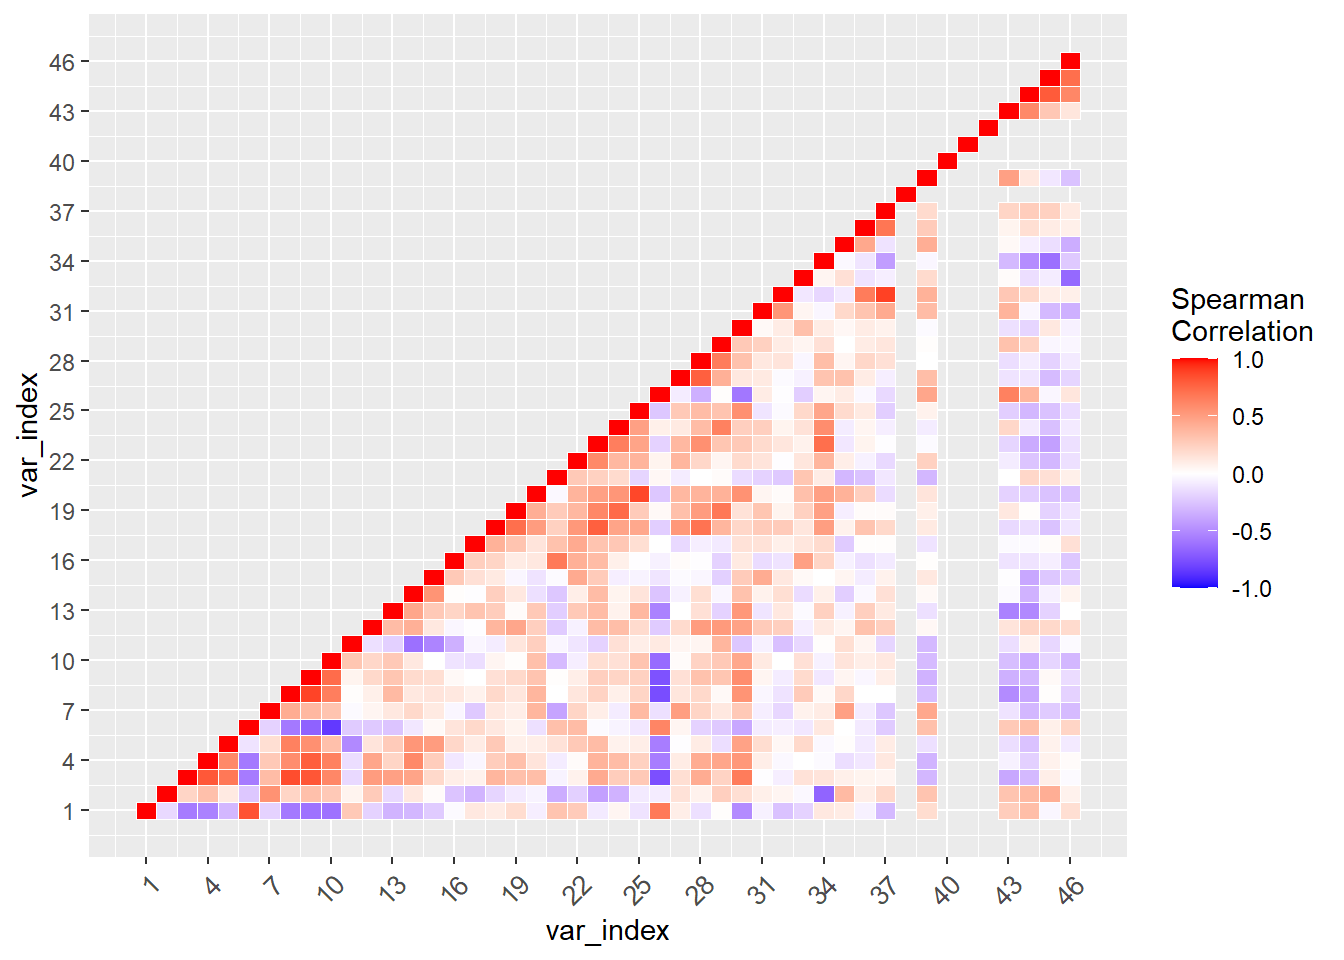
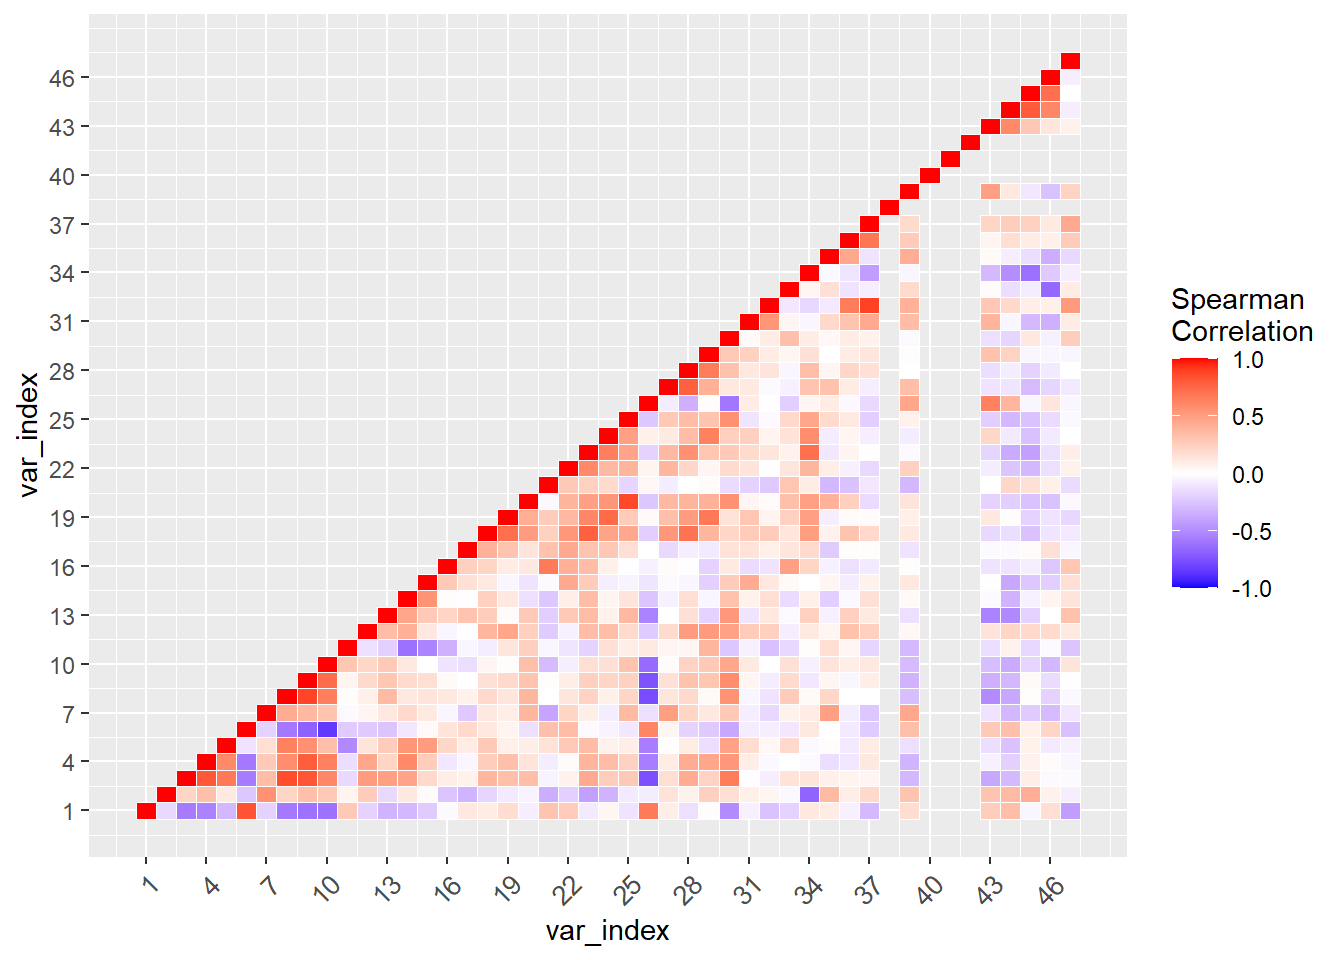
2/13/2025

diff --git a/docs/2022_Sep1_Juan.html b/docs/2022_Sep1_Juan.html
@@ -417,7 +417,7 @@ aria-hidden="true"></span> </a>
 <div class="tab-content">
 <div id="summary" class="tab-pane fade in active">
 <p>
-<strong>Last updated:</strong> 2025-02-12
+<strong>Last updated:</strong> 2025-02-13
 </p>
 <p>
 <strong>Checks:</strong> <span
@@ -551,15 +551,15 @@ project makes it easier to run your code on other machines.</p>
 <div class="panel panel-default">
 <div class="panel-heading">
 <p class="panel-title">
-<a data-toggle="collapse" data-parent="#workflowr-checks" href="#strongRepositoryversionstrongahrefhttpsgithubcomhan16Collaborationstreebde403a076b94151d3ca0912f7fe70763e4f8fe3targetblankbde403aa">
+<a data-toggle="collapse" data-parent="#workflowr-checks" href="#strongRepositoryversionstrongahrefhttpsgithubcomhan16Collaborationstreeb9bdeb1247af3da7f0e8ae49407dbcfa8905ae19targetblankb9bdeb1a">
 <span class="glyphicon glyphicon-ok text-success"
 aria-hidden="true"></span> <strong>Repository version:</strong>
-<a href="https://github.com/han16/Collaborations/tree/bde403a076b94151d3ca0912f7fe70763e4f8fe3" target="_blank">bde403a</a>
+<a href="https://github.com/han16/Collaborations/tree/b9bdeb1247af3da7f0e8ae49407dbcfa8905ae19" target="_blank">b9bdeb1</a>
 </a>
 </p>
 </div>
 <div
[2 lines of base64/hex data omitted]
 class="panel-collapse collapse">
 <div class="panel-body">
 <p>
@@ -569,7 +569,7 @@ reproducibility.
 </p>
 <p>
 The results in this page were generated with repository version
-<a href="https://github.com/han16/Collaborations/tree/bde403a076b94151d3ca0912f7fe70763e4f8fe3" target="_blank">bde403a</a>.
+<a href="https://github.com/han16/Collaborations/tree/b9bdeb1247af3da7f0e8ae49407dbcfa8905ae19" target="_blank">b9bdeb1</a>.
 See the <em>Past versions</em> tab to see a history of the changes made
 to the R Markdown and HTML files.
 </p>
@@ -635,6 +635,40 @@ Message
 </tr>
 </thead>
 <tbody>
+<tr>
+<td>
+Rmd
+</td>
+<td>
+<a href="https://github.com/han16/Collaborations/blob/b9bdeb1247af3da7f0e8ae49407dbcfa8905ae19/analysis/2022_Sep1_Juan.Rmd" target="_blank">b9bdeb1</a>
+</td>
+<td>
+han
+</td>
+<td>
+2025-02-12
+</td>
+<td>
+2/12/2025
+</td>
+</tr>
+<tr>
+<td>
+html
+</td>
+<td>
+<a href="https://rawcdn.githack.com/han16/Collaborations/b9bdeb1247af3da7f0e8ae49407dbcfa8905ae19/docs/2022_Sep1_Juan.html" target="_blank">b9bdeb1</a>
+</td>
+<td>
+han
+</td>
+<td>
+2025-02-12
+</td>
+<td>
+2/12/2025
+</td>
+</tr>
 <tr>
 <td>
 Rmd
@@ -4210,7 +4244,7 @@ han
 </div>
 <ul>
 <li><p><a
-href="https://marq-my.sharepoint.com/:x:/g/personal/shengtong_han_marquette_edu/EWwblT_WNiZAvUlf45jHbj8BTW202m50FsaI4XiP2xZcVw?e=jTk3g1">spearman
+href="https://marq-my.sharepoint.com/:x:/g/personal/shengtong_han_marquette_edu/EXom4m56R1lGvzIe1yOfCB8BrvKjP6j7OG8uh-rEW5_2hA?e=8kwDlm">spearman
 correlation matrix and p values</a>,
 i.e. <code>correlation_pvalue</code>.</p></li>
 <li><p><code>NA</code> in the correlation matrix means one of variables
@@ -4261,7 +4295,7 @@ han
 </div>
 <ul>
 <li><p><a
-href="https://marq-my.sharepoint.com/:x:/g/personal/shengtong_han_marquette_edu/Ef3kQ1eaHTdPuMcfVUSrycoBHiLXZcTpozzLHDNHEeP6TQ?e=qYDAGm">spearman
+href="https://marq-my.sharepoint.com/:x:/g/personal/shengtong_han_marquette_edu/ERK9cvbJox5NmJKVMvgZRbMBpAaVe-HZ7bxkHA4DZWTKXQ?e=zyzCKI">spearman
 correlation matrix and p values</a>,
 i.e. <code>correlation_pvalue</code>.</p></li>
 <li><p><code>NA</code> in the correlation matrix means one of variables
